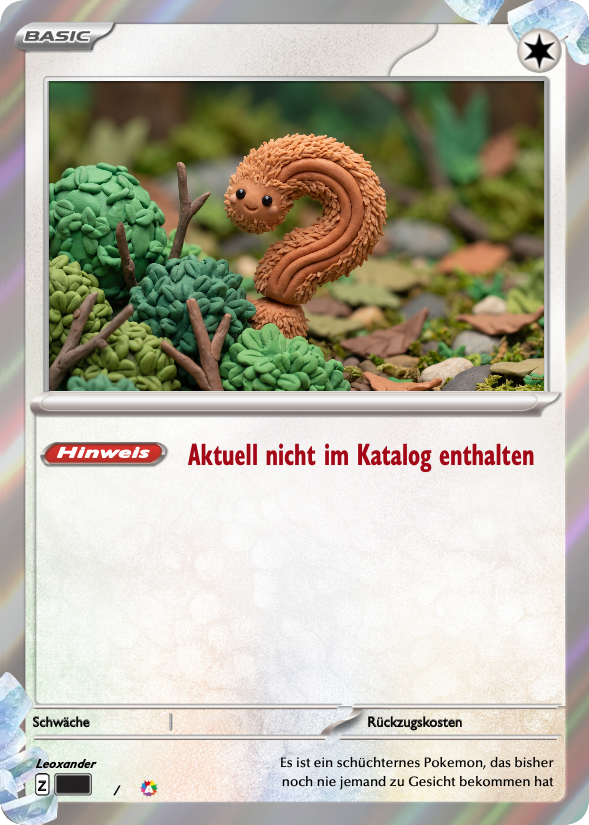
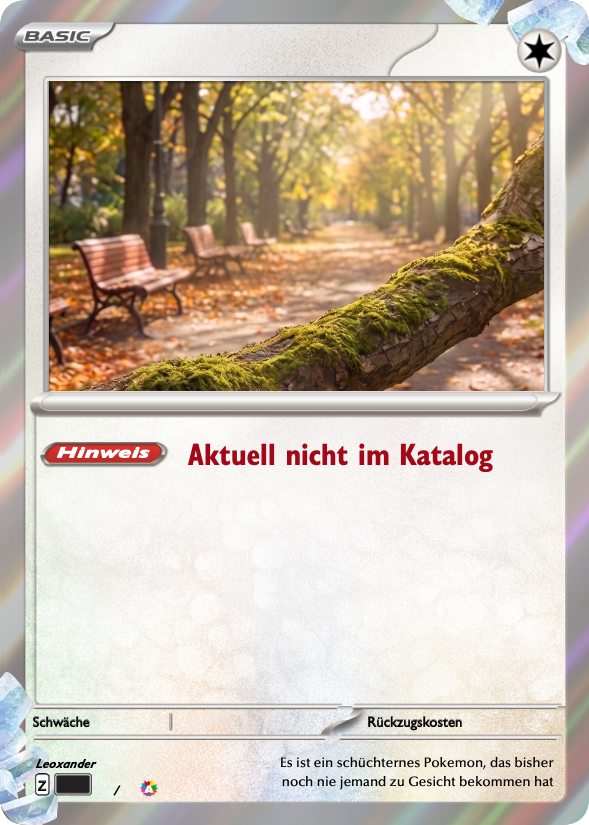
feat(card): statische „Kein Bild"-Platzhalterkarte für katalogisierte Karten ohne Bild
- CardPlaceholder ist jetzt ein einziger bild-basierter Renderer: Daten-Overlay
  (Name/KP/Set/Nr./Dex) an identischen Positionen; Hintergrund + rotes „?"-Badge
  hängen nur von `pending` ab. Alter CSS-„Bild fehlt"-Zweig entfernt.
  - pending (nicht im Katalog): pending-card-template.png + „?"-Badge
  - katalogisiert, Bild fehlt: no-card-image.png (kein Badge)
- CardImage: Karten mit Infos → CardPlaceholder (Overlay); reine Thumbnails
  ohne Daten → nacktes no-card-image.png
- public/no-card-image.png (neu), pending-card-template.png aktualisiert

diff --git a/components/card/CardPlaceholder.tsx b/components/card/CardPlaceholder.tsx
@@ -1,23 +1,21 @@
 'use client';
 
 import { useEffect, useLayoutEffect, useRef, useState } from 'react';
-import { ENERGY_META, EnergyIcon, type EnergyType } from '@/components/ui/EnergyIcon';
 
 // useLayoutEffect vermeidet ein sichtbares „Zucken" der Namensgröße; auf dem
 // Server (SSR) auf useEffect ausweichen, um die React-Warnung zu vermeiden.
 const useIsoLayoutEffect = typeof window !== 'undefined' ? useLayoutEffect : useEffect;
 
 /**
- * Platzhalter für Karten ohne Bild (weder TCGdex noch Backfill haben eins).
- * Nachempfundene Pokémon-Karte mit realistischen Proportionen: farbiger
- * Typ-Rahmen, Kartenkörper, Artwork-Fenster in der oberen Kartenhälfte (mit
- * „Bild fehlt"), Pokédex-Nr. direkt darunter, unten links Set-Kürzel +
- * Nummer/PrintedTotal. Zeigt die vorhandenen Infos (Name dt., KP, Set, Dex).
- *
- * Bewusst KEIN 1:1-Nachbau der offiziellen Pokémon-Kartengestaltung (kein
- * gelber Trade-Dress-Rahmen) — nur eine erkennbare, generische Kartenoptik.
- * Sobald ein späterer TCGdex-Sync ein echtes (deutsches) Bild liefert, wird
- * statt dieses Platzhalters das Bild gezeigt.
+ * Platzhalter für Karten ohne Bild. Legt die vorhandenen Werte (Name dt., KP,
+ * Set-Kürzel, Set-Nummer, Pokédex-Nr.) als Overlay auf eine fertige Karten-
+ * vorlage — an denselben, pixel-vermessenen Positionen für beide Fälle:
+ *  - `pending` (nicht im Katalog): Hintergrund `pending-card-template.png` +
+ *    rotes „?"-Eck-Badge (Bild kommt beim späteren TCGdex-Sync).
+ *  - sonst (katalogisiert, aber noch ohne Bild): Hintergrund `no-card-image.png`
+ *    ohne Badge.
+ * Sobald ein späterer Sync ein echtes (deutsches) Bild liefert, wird statt des
+ * Platzhalters das Bild gezeigt (siehe `CardImage`).
  */
 export interface CardPlaceholderInfo {
   name: string;
@@ -27,8 +25,8 @@ export interface CardPlaceholderInfo {
   dexNumber?: number;
   setCode?: string;
   types?: string[];
-  /** true = vorläufige, nicht katalogisierte Karte → Hinweis „nicht im Katalog"
-   *  statt „Bild fehlt" (das Bild kommt beim späteren Sync). */
+  /** true = vorläufige, nicht katalogisierte Karte → Template „nicht im Katalog"
+   *  + rotes „?"-Badge. false = katalogisiert, aber Bild fehlt noch. */
   pending?: boolean;
 }
 
@@ -43,13 +41,9 @@ export function CardPlaceholder({
   style?: React.CSSProperties;
   onClick?: () => void;
 }) {
-  const { name, hp, number, total, dexNumber, setCode, types, pending } = info;
-  const numberLabel = number ? `${number}${total ? `/${total}` : ''}` : null;
+  const { name, hp, number, dexNumber, setCode, pending } = info;
 
-  const t0 = types?.[0];
-  const type = (t0 && t0 in ENERGY_META ? t0 : null) as EnergyType | null;
-
-  // Namensgröße: Basis = KP-Wert-Größe (5cqw). Nur wenn der Name zu breit wird
+  // Namensgröße: Basis = KP-Wert-Größe (5.8cqw). Nur wenn der Name zu breit wird
   // und sonst ins KP-Feld liefe, schrumpft er gerade so weit, dass er komplett
   // in den verfügbaren Bereich passt (wie auf echten Karten) — kein Überlappen,
   // kein Abschneiden. `cqw` ist breitenrelativ, daher skaliert das mit.
@@ -71,35 +65,36 @@ export function CardPlaceholder({
     }
   }, [name]);
 
-  // Vorläufige (nicht im Katalog gefundene) Karte: das vom Nutzer gelieferte
-  // Karten-Template als Hintergrund + die erkannten Werte als Overlay. Positionen
-  // sind PROZENTUAL (leicht anpassbar, wenn das Template verfeinert wird);
-  // Schriftgrößen in `cqw` skalieren mit der Kartenbreite (Container-Query).
-  if (pending) {
-    const labelShadow = '0 1px 2px rgba(255,255,255,0.85), 0 0 1px rgba(255,255,255,0.9)';
-    // Echte Pokémon-Karten: Name/Set/Nummern in Gill Sans (Condensed Extra
-    // Bold → hier via weight 900 + leichte scaleX-Stauchung angenähert, da das
-    // System-Gill-Sans keinen Condensed-Schnitt hat), KP-Zahl in Futura Bold.
-    // Beide sind auf iOS/macOS Systemschriften.
-    const cardFont = '"Gill Sans", "Gill Sans MT", "GillSans", "Segoe UI", sans-serif';
-    const numFont = '"Futura", "Futura-Bold", "Jost", "Century Gothic", sans-serif';
-    return (
-      <div
-        className={className}
-        style={{ containerType: 'inline-size', position: 'relative', ...style }}
-        onClick={onClick}
-        role="img"
-        aria-label={`${name} — vorläufig, nicht im Katalog`}
-      >
-        {/* eslint-disable-next-line @next/next/no-img-element */}
-        <img
-          src="/pending-card-template.png"
-          alt=""
-          className="absolute inset-0 w-full h-full object-cover rounded-[5%]"
-        />
-        {/* Rotes „?"-Eck-Badge oben links — gleiche Form/Optik wie das gelbe
-            „!"-Prüfen-Badge (CardBadge, corner="tl"): quadratisch, obere linke
-            Ecke = Kartenecke, „?" als Stroke-Icon im selben Stil wie das „!". */}
+  const labelShadow = '0 1px 2px rgba(255,255,255,0.85), 0 0 1px rgba(255,255,255,0.9)';
+  // Echte Pokémon-Karten: Name/Set/Nummern in Gill Sans (Condensed Extra Bold →
+  // hier via höherem Gewicht + leichter scaleX-Stauchung angenähert, da das
+  // System-Gill-Sans keinen Condensed-Schnitt hat), KP-Zahl in Futura Bold.
+  // Beide sind auf iOS/macOS Systemschriften.
+  const cardFont = '"Gill Sans", "Gill Sans MT", "GillSans", "Segoe UI", sans-serif';
+  const numFont = '"Futura", "Futura-Bold", "Jost", "Century Gothic", sans-serif';
+
+  // Beide Vorlagen haben denselben Kartenrahmen → identische Overlay-Positionen.
+  const bgSrc = pending ? '/pending-card-template.png' : '/no-card-image.png';
+
+  return (
+    <div
+      className={className}
+      style={{ containerType: 'inline-size', position: 'relative', ...style }}
+      onClick={onClick}
+      role="img"
+      aria-label={pending ? `${name} — vorläufig, nicht im Katalog` : `${name} — aktuell kein Bild`}
+    >
+      {/* eslint-disable-next-line @next/next/no-img-element */}
+      <img
+        src={bgSrc}
+        alt=""
+        className="absolute inset-0 w-full h-full object-cover rounded-[5%]"
+      />
+      {/* Rotes „?"-Eck-Badge oben links — NUR bei vorläufigen Karten. Gleiche
+          Form/Optik wie das gelbe „!"-Prüfen-Badge (CardBadge, corner="tl"):
+          quadratisch, obere linke Ecke = Kartenecke, „?" als Stroke-Icon im
+          selben Stil wie das „!". */}
+      {pending && (
         <div
           style={{
             position: 'absolute', top: 0, left: 0, width: '17cqw', height: '17cqw',
@@ -123,134 +118,56 @@ export function CardPlaceholder({
             <line x1="12" y1="17" x2="12.01" y2="17" />
           </svg>
         </div>
-        {/* Name — oben, transparent direkt auf die Karte (Text-Schatten für
-            Lesbarkeit), etwas kleiner. */}
+      )}
+      {/* Name — oben, transparent direkt auf die Karte (Text-Schatten für
+          Lesbarkeit). */}
+      <span
+        ref={nameRef}
+        style={{
+          position: 'absolute', left: '19.5%', top: '4.1%', maxWidth: '44%',
+          transform: 'scaleX(0.92) scaleY(1.2)', transformOrigin: 'left center',
+          fontFamily: cardFont, fontSize: `${nameSizeCqw}cqw`, fontWeight: 700,
+          color: '#141414', lineHeight: 1,
+          whiteSpace: 'nowrap', overflow: 'hidden', textOverflow: 'ellipsis',
+          textShadow: labelShadow,
+        }}
+      >
+        {name}
+      </span>
+      {/* KP — oben rechts, transparent; „KP" schwarz + kleiner, Wert größer. */}
+      {hp != null && (
         <span
-          ref={nameRef}
           style={{
-            position: 'absolute', left: '19.5%', top: '4.1%', maxWidth: '44%',
-            transform: 'scaleX(0.92) scaleY(1.2)', transformOrigin: 'left center',
-            fontFamily: cardFont, fontSize: `${nameSizeCqw}cqw`, fontWeight: 700,
-            color: '#141414', lineHeight: 1,
-            whiteSpace: 'nowrap', overflow: 'hidden', textOverflow: 'ellipsis',
-            textShadow: labelShadow,
+            position: 'absolute', right: '13.3%', top: '4.15%',
+            display: 'inline-flex', alignItems: 'baseline', gap: '0.5cqw',
+            fontFamily: cardFont, color: '#141414', lineHeight: 1, textShadow: labelShadow,
           }}
         >
-          {name}
+          <span style={{ fontFamily: cardFont, fontSize: '2.5cqw', fontWeight: 700 }}>KP</span>
+          <span style={{ fontFamily: numFont, fontSize: '5.4cqw', fontWeight: 500, letterSpacing: '-0.02em', WebkitTextStroke: '0.02em #141414', display: 'inline-block', transform: 'scaleY(1.14)', transformOrigin: 'bottom' }}>{hp}</span>
         </span>
-        {/* KP — oben rechts, transparent; „KP" schwarz + kleiner, Wert größer. */}
-        {hp != null && (
-          <span
-            style={{
-              position: 'absolute', right: '13.3%', top: '4.15%',
-              display: 'inline-flex', alignItems: 'baseline', gap: '0.5cqw',
-              fontFamily: cardFont, color: '#141414', lineHeight: 1, textShadow: labelShadow,
-            }}
-          >
-            <span style={{ fontFamily: cardFont, fontSize: '2.5cqw', fontWeight: 700 }}>KP</span>
-            <span style={{ fontFamily: numFont, fontSize: '5.4cqw', fontWeight: 500, letterSpacing: '-0.02em', WebkitTextStroke: '0.02em #141414', display: 'inline-block', transform: 'scaleY(1.14)', transformOrigin: 'bottom' }}>{hp}</span>
-          </span>
-        )}
-        {/* Pokédex-Nr. — im schmalen Streifen direkt unter dem Artwork-Fenster,
-            horizontal Richtung Mitte. */}
-        {dexNumber != null && (
-          <span style={{ position: 'absolute', left: '40%', top: '47.3%', transform: 'scaleX(0.9)', transformOrigin: 'left center', fontFamily: cardFont, fontSize: '2.6cqw', fontWeight: 600, color: '#3a3a3a', textShadow: labelShadow }}>
-            Nr. {dexNumber}
-          </span>
-        )}
-        {/* Set-Kürzel — weiß, mittig in der eingebrannten schwarzen Box (unten
-            links), wie die Nummern-Box auf echten Karten. */}
-        {setCode && (
-          <span style={{ position: 'absolute', left: '9.7%', bottom: '4.28%', width: '5.2%', textAlign: 'center', transform: 'scaleX(0.9)', transformOrigin: 'center', fontFamily: cardFont, fontSize: '2cqw', fontWeight: 700, color: '#fff', lineHeight: 1, whiteSpace: 'nowrap' }}>
-            {setCode}
-          </span>
-        )}
-        {/* Set-Nummer — rechtsbündig knapp links neben dem eingebrannten „/"
-            (ohne Gesamtzahl, die haben wir nicht). */}
-        {number && (
-          <span style={{ position: 'absolute', right: '80.6%', bottom: '3.55%', transform: 'scaleX(0.9)', transformOrigin: 'right center', fontFamily: cardFont, fontSize: '2cqw', fontWeight: 700, color: '#2b2b2b', textShadow: labelShadow, lineHeight: 1, whiteSpace: 'nowrap' }}>
-            {number}
-          </span>
-        )}
-      </div>
-    );
-  }
-
-  return (
-    <div className={className} style={style} onClick={onClick} role="img" aria-label={`${name} — Bild fehlt`}>
-      {/* Gelber Karten-Rand (klassische Pokémon-Optik) */}
-      <div
-        className="w-full h-full rounded-[5%] p-[4%] shadow-[inset_0_1px_2px_rgba(255,255,255,0.4),0_2px_6px_rgba(0,0,0,0.25)]"
-        style={{ background: 'linear-gradient(155deg, #F5CE3E 0%, #E0AC24 55%, #C68E17 100%)' }}
-      >
-        {/* Kartenkörper (creme) */}
-        <div
-          className="w-full h-full rounded-[3%] flex flex-col p-[4%] text-[#2b2b2b]"
-          style={{ background: 'linear-gradient(160deg, #faf8f2 0%, #ece6d6 100%)' }}
-        >
-          {/* Kopf: Name + KP + Typ-Icon */}
-          <div className="flex items-center justify-between gap-1.5 pb-[3%]">
-            <span className="font-bold text-[11px] leading-tight truncate">{name}</span>
-            <span className="flex items-center gap-1 shrink-0">
-              {hp != null && (
-                <span className="font-extrabold text-[10px] leading-none">
-                  <span className="text-[#c0392b]">KP</span> {hp}
-                </span>
-              )}
-              {type && <EnergyIcon type={type} size={14} />}
-            </span>
-          </div>
-
-          {/* Artwork-Fenster — grüne Landschaft + „Wer ist das Pokémon?"-Silhouette */}
-          <div
-            className="relative flex-[0_0_48%] min-h-0 overflow-hidden rounded-[2px]"
-            style={{ border: '2px solid #b8901a', boxShadow: 'inset 0 1px 3px rgba(0,0,0,0.3)' }}
-          >
-            <svg viewBox="0 0 120 84" preserveAspectRatio="xMidYMid slice" className="w-full h-full" aria-hidden="true">
-              <defs>
-                <linearGradient id="ph-sky" x1="0" y1="0" x2="0" y2="1">
-                  <stop offset="0" stopColor="#a6e0b0" />
-                  <stop offset="0.55" stopColor="#63bd77" />
-                  <stop offset="1" stopColor="#2f8f4c" />
-                </linearGradient>
-              </defs>
-              <rect width="120" height="84" fill="url(#ph-sky)" />
-              {/* Sonne */}
-              <circle cx="98" cy="18" r="9" fill="#f7f3c8" opacity="0.75" />
-              {/* Hügel-Landschaft */}
-              <path d="M0 60 Q30 46 62 58 T120 54 V84 H0 Z" fill="#3f9d5a" opacity="0.9" />
-              <path d="M0 70 Q38 58 78 69 T120 66 V84 H0 Z" fill="#2a7a41" />
-              {/* Mystery-Pokémon-Silhouette mit Fragezeichen */}
-              <g fill="#17351f" opacity="0.9">
-                <ellipse cx="60" cy="46" rx="16" ry="15" />
-                <path d="M49 34 Q47 24 53 27 Q54 31 57 33 Z" />
-                <path d="M71 34 Q73 24 67 27 Q66 31 63 33 Z" />
-              </g>
-              <text x="60" y="52" textAnchor="middle" fontSize="20" fontWeight="bold" fill="#eaf6ec" fontFamily="sans-serif">?</text>
-            </svg>
-            {/* „Bild fehlt"-Hinweis */}
-            <span className="absolute bottom-0 inset-x-0 text-center text-[8px] leading-tight font-semibold text-white py-[1.5%]" style={{ background: 'rgba(0,0,0,0.4)' }}>
-              {pending ? 'nicht im Katalog' : 'Bild fehlt'}
-            </span>
-          </div>
-
-          {/* Pokédex-Nr. direkt unter dem Bild */}
-          {dexNumber != null && (
-            <div className="text-[8px] leading-none text-[#6b6656] pt-[2.5%] pl-[1%]">Nr. {dexNumber}</div>
-          )}
-
-          {/* Textbox-Bereich (leer) füllt den Rest */}
-          <div className="flex-1 min-h-0" />
-
-          {/* Fuß unten links: Set-Kürzel + Nummer/PrintedTotal (wie echte Karte) */}
-          <div className="flex items-center gap-1.5 text-[9px] leading-none text-[#6b6656]">
-            {setCode && (
-              <span className="font-bold px-1 py-0.5 rounded-[3px]" style={{ background: 'rgba(0,0,0,0.10)' }}>{setCode}</span>
-            )}
-            {numberLabel && <span className="font-medium">{numberLabel}</span>}
-          </div>
-        </div>
-      </div>
+      )}
+      {/* Pokédex-Nr. — im schmalen Streifen direkt unter dem Artwork-Fenster,
+          horizontal Richtung Mitte. */}
+      {dexNumber != null && (
+        <span style={{ position: 'absolute', left: '40%', top: '47.3%', transform: 'scaleX(0.9)', transformOrigin: 'left center', fontFamily: cardFont, fontSize: '2.6cqw', fontWeight: 600, color: '#3a3a3a', textShadow: labelShadow }}>
+          Nr. {dexNumber}
+        </span>
+      )}
+      {/* Set-Kürzel — weiß, mittig in der eingebrannten schwarzen Box (unten
+          links), wie die Nummern-Box auf echten Karten. */}
+      {setCode && (
+        <span style={{ position: 'absolute', left: '9.7%', bottom: '4.28%', width: '5.2%', textAlign: 'center', transform: 'scaleX(0.9)', transformOrigin: 'center', fontFamily: cardFont, fontSize: '2cqw', fontWeight: 700, color: '#fff', lineHeight: 1, whiteSpace: 'nowrap' }}>
+          {setCode}
+        </span>
+      )}
+      {/* Set-Nummer — rechtsbündig knapp links neben dem eingebrannten „/"
+          (ohne Gesamtzahl, die haben wir nicht). */}
+      {number && (
+        <span style={{ position: 'absolute', right: '80.6%', bottom: '3.55%', transform: 'scaleX(0.9)', transformOrigin: 'right center', fontFamily: cardFont, fontSize: '2cqw', fontWeight: 700, color: '#2b2b2b', textShadow: labelShadow, lineHeight: 1, whiteSpace: 'nowrap' }}>
+          {number}
+        </span>
+      )}
     </div>
   );
 }

diff --git a/components/card/CardImage.tsx b/components/card/CardImage.tsx
@@ -49,26 +49,23 @@ export function CardImage({
   // || statt ?? — fängt auch leere Strings aus Firestore ab
   const activeSrc = (!failed && srcDe) ? srcDe : (src || undefined);
 
-  // Kein Bild (weder TCGdex noch Backfill) → Platzhalter statt Leerraum.
-  // Mit Karteninfos: nachempfundene Karte mit Name/KP/Nummer/Dex + „Bild fehlt".
-  // Ohne Infos (z.B. Evolutions-Thumbnail): schlichte neutrale Fläche.
+  // Kein Bild (weder TCGdex noch Backfill):
+  // - Vorläufige (nicht katalogisierte) Karte → eigenes Template mit den
+  //   erkannten Werten (Name/KP/Set/Nr.) via CardPlaceholder.
+  // - Alle anderen Karten ohne Bild → statische „Kein Bild"-Platzhalterkarte
+  //   (`/no-card-image.png`, gleiche Kartenproportion).
   // Sobald ein späterer TCGdex-Sync ein (deutsches) Bild liefert, wird das Feld
   // gefüllt und hier automatisch das echte Bild gezeigt.
   if (!activeSrc) {
+    // Mit Karteninfos: Platzhalterkarte mit Daten-Overlay (CardPlaceholder wählt
+    // je nach `pending` das Template + „?"-Badge). Ohne Infos (z.B. Evolutions-
+    // Thumbnail): nur die statische „Kein Bild"-Karte.
     if (placeholderInfo) {
       return <CardPlaceholder info={placeholderInfo} className={className} style={style} onClick={onClick} />;
     }
     return (
-      <div className={className} style={style} onClick={onClick} aria-label={alt} role="img">
-        <div className="w-full h-full flex flex-col items-center justify-center gap-1.5 rounded-[7%] bg-[rgba(30,40,80,0.06)] dark:bg-white/10 text-glass-muted">
-          <svg viewBox="0 0 24 24" fill="none" stroke="currentColor" strokeWidth="1.5" strokeLinecap="round" strokeLinejoin="round" className="w-1/4 h-1/4 opacity-60" aria-hidden="true">
-            <rect x="3" y="3" width="18" height="18" rx="2" />
-            <circle cx="12" cy="12" r="3.2" />
-            <path d="M3 12h5.8M15.2 12H21" />
-          </svg>
-          <span className="text-[10px] leading-none opacity-60">kein Bild</span>
-        </div>
-      </div>
+      // eslint-disable-next-line @next/next/no-img-element
+      <img src="/no-card-image.png" alt={alt} className={className} style={style} onClick={onClick} role="img" />
     );
   }
 
